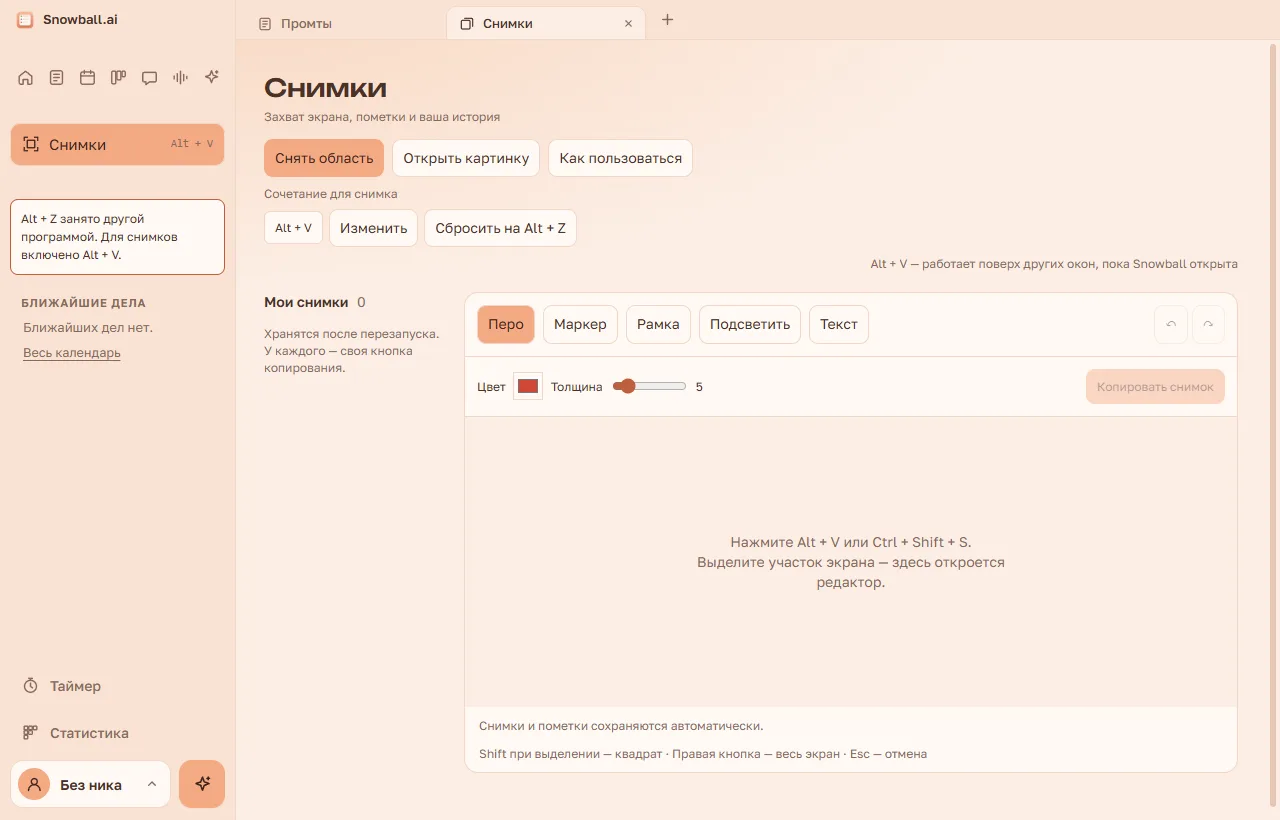
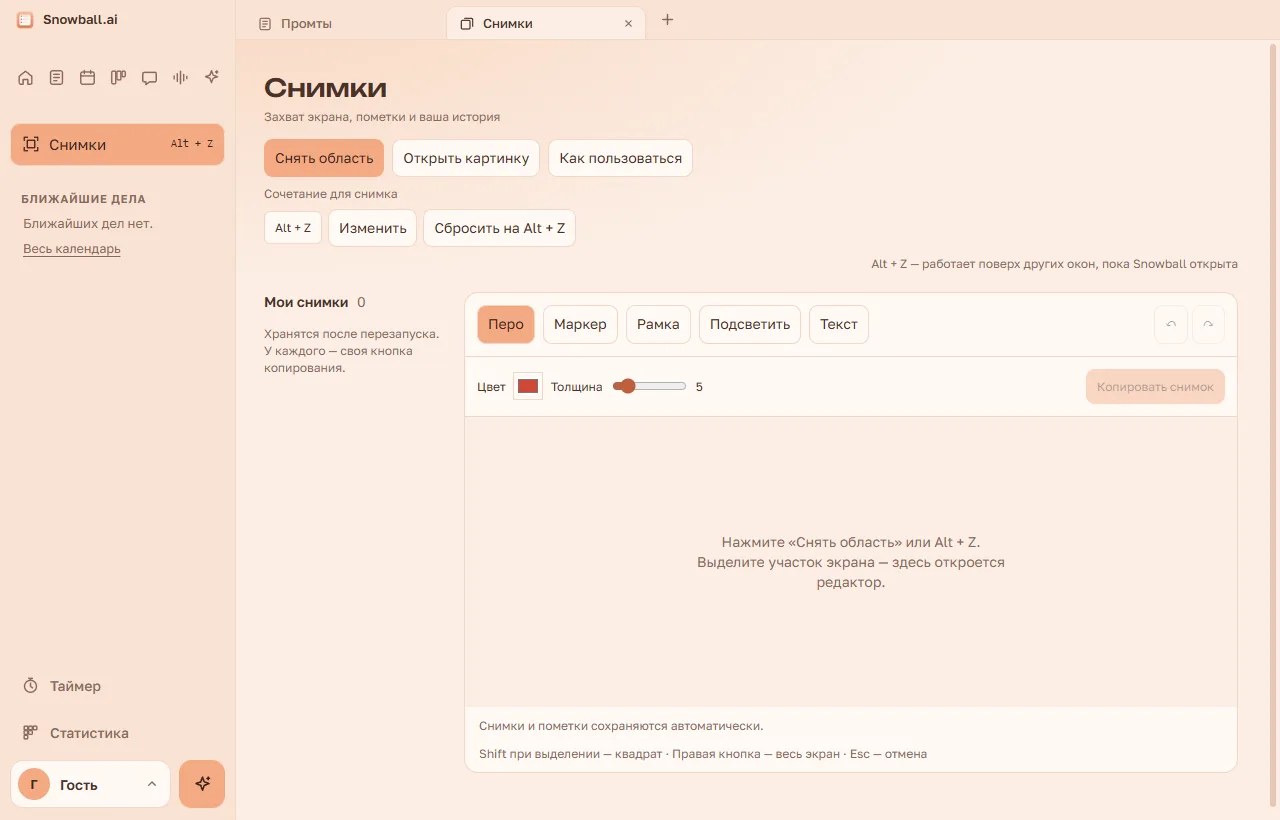
Fix screenshot guidance and shortcut hint in 1.16.3

diff --git a/tools/guide-shots/shots-1.16.0.js b/tools/guide-shots/shots-1.16.0.js
@@ -6,11 +6,29 @@ module.exports = async function ({ main, page, shot }) {
   await until('!!window.vsApi && !!document.querySelector(".capture-nav")');
   await ev("vsApi.setTheme('light')");
   await ev("vsApi.saveProfile({name:'Гость'})");
+  // Refresh this window's own state after the direct API save (sync is sent only to other windows).
+  await page.send('Page.reload', {});
+  await until("document.querySelector('#side-name')?.textContent === 'Гость'");
   await ev("document.querySelectorAll('dialog[open]').forEach(d=>d.close())");
   await click('.capture-nav');
   await until('!!window.screenshotEditor');
   await until("!!document.querySelector('.shot-key .capture-shortcut-change') && document.querySelector('.shot-key-state').textContent.length > 0");
-  await shot('01-where', { section: '.capture-nav', capture: '[data-action=capture]', key: '.shot-key', help: '[data-guide=screenshots]' });
+  // Guide pictures always show the ordinary default. The installed Snowball may own Alt+Z;
+  // change only the isolated guide window's displayed labels, never its actual registration.
+  async function guideShot(name, targets) {
+    await ev(`(() => {
+      const nav = document.querySelector('.capture-nav');
+      nav.querySelector('kbd').textContent = 'Alt + Z';
+      nav.title = 'Снимки экрана · Alt + Z';
+      document.querySelector('#capture-shortcut-notice').hidden = true;
+      document.querySelector('.shot-key output').textContent = 'Alt + Z';
+      document.querySelector('.shot-key-state').textContent = 'Alt + Z — работает поверх других окон, пока Snowball открыта';
+      document.querySelector('.shot-empty-key').textContent = 'Нажмите «Снять область» или Alt + Z.';
+      return true;
+    })()`);
+    await shot(name, targets);
+  }
+  await guideShot('01-where', { section: '.capture-nav', capture: '[data-action=capture]', key: '.shot-key', help: '[data-guide=screenshots]' });
   // Add two harmless fixtures via the real import handler.
   for (let i = 1; i <= 2; i++) {
     const png = await ev(`(() => { const c=document.createElement('canvas');c.width=640;c.height=280;const g=c.getContext('2d');g.fillStyle='#e0e9e1';g.fillRect(0,0,640,280);g.fillStyle='#fff9f4';g.fillRect(30,30,580,220);g.fillStyle='#416551';g.font='bold 28px sans-serif';g.fillText('План проекта — пример ${i}',55,80);g.font='18px sans-serif';g.fillText('Подготовить материалы',55,130);g.fillText('Обсудить идею',55,175);g.fillStyle='#f4aa84';g.fillRect(420,105,150,90);return c.toDataURL('image/png').split(',')[1] })()`);
@@ -26,17 +44,18 @@ module.exports = async function ({ main, page, shot }) {
   }
   await draw('marker', .08, .47, .59, .47);
   await ev('window.screenshotEditor.flush()');
-  await shot('02-tools', { tools: '.shot-tools', pressure: '.shot-pressure-label', color: '.shot-color', undo: '.shot-undo' });
+  await guideShot('02-tools', { tools: '.shot-tools', pressure: '.shot-pressure-label', color: '.shot-color', undo: '.shot-undo' });
   await draw('text', .1, .73, .57, .93);
   await page.send('Input.insertText', { text: 'Проверить сегодня' });
-  await shot('03-text', { text: '.shot-text', tool: '[data-tool=text]' });
+  await guideShot('03-text', { text: '.shot-text', tool: '[data-tool=text]' });
   await ev('window.screenshotEditor.flush()');
   await draw('focus', .64, .35, .91, .73);
   await ev('window.screenshotEditor.flush()');
-  await shot('04-focus', { tool: '[data-tool=focus]', blur: '.shot-blur-label', image: '.shot-stage canvas', copy: '[data-action=copy]' });
+  await guideShot('04-focus', { tool: '[data-tool=focus]', blur: '.shot-blur-label', image: '.shot-stage canvas', copy: '[data-action=copy]' });
+  const deletedId = await ev("document.querySelector('.shot-card:last-child').dataset.id");
   await click('.shot-card:last-child .shot-delete');
-  await until("!document.querySelector('.shot-toast').hidden");
-  await shot('05-history', { history: '.shot-library', copy: '.shot-card .shot-copy', remove: '.shot-card .shot-delete', undo: '.shot-toast' });
+  await until(`!document.querySelector('.shot-card[data-id=${JSON.stringify(deletedId)}]') && !document.querySelector('.shot-toast').hidden && document.querySelectorAll('.shot-card').length === 1`);
+  await guideShot('05-history', { history: '.shot-library', copy: '.shot-card .shot-copy', remove: '.shot-card .shot-delete', undo: '.shot-toast' });
   await click('.shot-toast button');
   await sleep(250);
   return shot.boxes;

diff --git a/src/guides/guides.js b/src/guides/guides.js
@@ -5,7 +5,7 @@
 // A point: box — the key of a box on its screenshot, at — where the label stands (pixels of the 1280 × 820 screenshot),
 // label — a few words on the screenshot, text — what to do. A step with two frames shows a button and what it opens.
 window.GUIDES = [
-  { version: "1.16.0", updated: "1.16.2", section: "screenshots", title: "Снимки", steps: [
+  { version: "1.16.0", updated: "1.16.3", section: "screenshots", title: "Снимки", steps: [
     { title: "Где найти и как снять", lead: "Снимки открываются отдельным разделом. Захват работает и поверх других программ.", frames: [{ shot: "01-where", points: [
       { box: "section", at: [110, 260], label: "Снимки", text: "Кнопка под иконками слева открывает историю и редактор." },
       { box: "capture", at: [420, 320], label: "Снять область", text: "Нажмите кнопку или выбранные горячие клавиши. Потяните мышью по экрану; Shift делает квадрат, правая кнопка снимает весь монитор, Esc отменяет." },

diff --git a/src/screenshots.js b/src/screenshots.js
@@ -278,7 +278,7 @@
     }
     function keyState(r) {
       const keyLabel = window.SnowShortcut.format(r.shortcut);
-      $('.shot-empty-key').textContent = 'Нажмите ' + keyLabel + ' или Ctrl + Shift + S.';
+      $('.shot-empty-key').textContent = 'Нажмите «Снять область» или ' + keyLabel + '.';
       $('.shot-key-state').textContent = r.shortcutActive
         ? keyLabel + ' — работает поверх других окон, пока Snowball открыта'
         : r.shortcutRecording
@@ -711,20 +711,6 @@
       }
     });
     window.addEventListener('resize', positionText);
-    document.addEventListener('keydown', (e) => {
-      if (
-        root.getClientRects().length &&
-        e.ctrlKey &&
-        e.shiftKey &&
-        !e.altKey &&
-        !e.metaKey &&
-        e.code === 'KeyS' &&
-        !e.repeat
-      ) {
-        e.preventDefault();
-        run(async () => check(await api.captureStart()));
-      }
-    });
     new ResizeObserver(positionText).observe($('.shot-stage'));
     window.addEventListener('beforeunload', (e) => {
       if (allowClose || (!textEdit && (!current || current.generation === current.saved))) return;

diff --git a/AGENTS.md b/AGENTS.md
@@ -65,7 +65,7 @@
 - Захват: глобальное сочетание (`globalShortcut`) работает поверх любых программ, пока Snowball запущена: `Alt+Z` по умолчанию или своё сочетание через «Изменить» (хранится в `settings.captureShortcut`; запасные `Alt+V` и `Alt+B` пробуются только при первом запуске без прежнего выбора, предупреждение видно в левой панели без открытия раздела; выбранное сочетание также показывается в настройках). `start` прячет окно, которое попросило, снимает все мониторы (`desktopCapturer`) и открывает на каждом окно выделения `capture-overlay.html` (Shift — квадрат, правая кнопка — весь монитор, Esc — отмена, через 2 минуты закрывается само). После выделения снимок сохраняется и открывается отдельное окно редактора `capture-editor.html` (одно на всю программу). Окна захвата и редактора помечены `__snowCapture`, `liveWins` в `main.js` их не видит; тему им шлёт `captures.theme()`. При закрытии последнего обычного окна `captures.closeAuxiliary()` сохраняет пометки и закрывает редактор и выделение. Окно, попросившее захват кнопкой, явно возвращается после завершения или отмены.
 - IPC (в `screenshots.js`, ответ `{ ok, … }`): `capture-list`, `capture-get`, `capture-save`, `capture-copy`, `capture-start`, `capture-import`, `capture-shortcut`, `capture-delete`, `capture-restore`, `capture-guide`; только для окна выделения — `capture-init`, `capture-choose`, `capture-cancel`; события `capture-changed`, `capture-open`, `capture-theme`. Запросы несут `token`: при смене папки с данными он меняется (`pause`/`resume` вокруг `change-data-dir`), старые окна получают ошибку.
 - Хранение (`ScreenshotStore`): папка «Снимки» в папке с данными, по папке `s<32 hex>/` на снимок: `original.png` (не меняется) и `meta.json` (`format: 'snowball-screenshot'`, размеры, `ops` — пометки, `blur`, `thumb`, `revision`). Запись атомарная; сохранение со старым `revision` отклоняется («Снимок уже изменён в другом окне»). Резервная копия кладёт их в `screenshots/<id>/` и добавляет только отсутствующие (`captures.backup`/`merge`), смена папки копирует «Снимки» (`copyDataTo`). Статистика считает создание/импорт и копирование снимка (`screenshots`, `recordScreenshot`), без удаления, отмены и загрузки резервной копии.
-- Проверка: `node --test tools/screenshot-store.test.cjs` (хранение), `tools/screenshot-smoke.cjs` и `tools/screenshot-preview.cjs`. Проверки занятых клавиш — `tools/screenshot-fallback.test.cjs`. Инструкция «Как пользоваться»: `src/guides/1.16.0/`, сценарий `tools/guide-shots/shots-1.16.0.js`, в `guides.js` версия `1.16.0`, `updated: "1.16.1"`. Кнопка есть в разделе и в отдельном редакторе (открывает инструкцию в главном окне).
+- Проверка: `node --test tools/screenshot-store.test.cjs` (хранение), `tools/screenshot-smoke.cjs` и `tools/screenshot-preview.cjs`. Проверки занятых клавиш — `tools/screenshot-fallback.test.cjs`. Инструкция «Как пользоваться»: `src/guides/1.16.0/`, сценарий `tools/guide-shots/shots-1.16.0.js`, в `guides.js` версия `1.16.0`, `updated: "1.16.3"`. Сценарий показывает Alt + Z только в учебных кадрах, независимо от занятого системного сочетания; реальную регистрацию не меняет. Кнопка есть в разделе и в отдельном редакторе (открывает инструкцию в главном окне).
 
 ## Инструкции к обновлениям («Как пользоваться»)
 - К каждому обновлению с новым разделом или новыми кнопками — инструкция по картинкам: шаги с настоящими скриншотами программы, рамки вокруг новых кнопок, тонкие стрелки от коротких подписей с номерами, справа под тем же номером — подробно. Если кнопка что-то открывает (меню, вкладку), у шага два кадра: «1. Нажмите» и «2. Что получится». У исправлений ошибок инструкции нет. Макет — `mockups/guide.html`.

diff --git a/CLAUDE.md b/CLAUDE.md
@@ -65,7 +65,7 @@
 - Захват: глобальное сочетание (`globalShortcut`) работает поверх любых программ, пока Snowball запущена: `Alt+Z` по умолчанию или своё сочетание через «Изменить» (хранится в `settings.captureShortcut`; запасные `Alt+V` и `Alt+B` пробуются только при первом запуске без прежнего выбора, предупреждение видно в левой панели без открытия раздела; выбранное сочетание также показывается в настройках). `start` прячет окно, которое попросило, снимает все мониторы (`desktopCapturer`) и открывает на каждом окно выделения `capture-overlay.html` (Shift — квадрат, правая кнопка — весь монитор, Esc — отмена, через 2 минуты закрывается само). После выделения снимок сохраняется и открывается отдельное окно редактора `capture-editor.html` (одно на всю программу). Окна захвата и редактора помечены `__snowCapture`, `liveWins` в `main.js` их не видит; тему им шлёт `captures.theme()`. При закрытии последнего обычного окна `captures.closeAuxiliary()` сохраняет пометки и закрывает редактор и выделение. Окно, попросившее захват кнопкой, явно возвращается после завершения или отмены.
 - IPC (в `screenshots.js`, ответ `{ ok, … }`): `capture-list`, `capture-get`, `capture-save`, `capture-copy`, `capture-start`, `capture-import`, `capture-shortcut`, `capture-delete`, `capture-restore`, `capture-guide`; только для окна выделения — `capture-init`, `capture-choose`, `capture-cancel`; события `capture-changed`, `capture-open`, `capture-theme`. Запросы несут `token`: при смене папки с данными он меняется (`pause`/`resume` вокруг `change-data-dir`), старые окна получают ошибку.
 - Хранение (`ScreenshotStore`): папка «Снимки» в папке с данными, по папке `s<32 hex>/` на снимок: `original.png` (не меняется) и `meta.json` (`format: 'snowball-screenshot'`, размеры, `ops` — пометки, `blur`, `thumb`, `revision`). Запись атомарная; сохранение со старым `revision` отклоняется («Снимок уже изменён в другом окне»). Резервная копия кладёт их в `screenshots/<id>/` и добавляет только отсутствующие (`captures.backup`/`merge`), смена папки копирует «Снимки» (`copyDataTo`). Статистика считает создание/импорт и копирование снимка (`screenshots`, `recordScreenshot`), без удаления, отмены и загрузки резервной копии.
-- Проверка: `node --test tools/screenshot-store.test.cjs` (хранение), `tools/screenshot-smoke.cjs` и `tools/screenshot-preview.cjs`. Проверки занятых клавиш — `tools/screenshot-fallback.test.cjs`. Инструкция «Как пользоваться»: `src/guides/1.16.0/`, сценарий `tools/guide-shots/shots-1.16.0.js`, в `guides.js` версия `1.16.0`, `updated: "1.16.1"`. Кнопка есть в разделе и в отдельном редакторе (открывает инструкцию в главном окне).
+- Проверка: `node --test tools/screenshot-store.test.cjs` (хранение), `tools/screenshot-smoke.cjs` и `tools/screenshot-preview.cjs`. Проверки занятых клавиш — `tools/screenshot-fallback.test.cjs`. Инструкция «Как пользоваться»: `src/guides/1.16.0/`, сценарий `tools/guide-shots/shots-1.16.0.js`, в `guides.js` версия `1.16.0`, `updated: "1.16.3"`. Сценарий показывает Alt + Z только в учебных кадрах, независимо от занятого системного сочетания; реальную регистрацию не меняет. Кнопка есть в разделе и в отдельном редакторе (открывает инструкцию в главном окне).
 
 ## Инструкции к обновлениям («Как пользоваться»)
 - К каждому обновлению с новым разделом или новыми кнопками — инструкция по картинкам: шаги с настоящими скриншотами программы, рамки вокруг новых кнопок, тонкие стрелки от коротких подписей с номерами, справа под тем же номером — подробно. Если кнопка что-то открывает (меню, вкладку), у шага два кадра: «1. Нажмите» и «2. Что получится». У исправлений ошибок инструкции нет. Макет — `mockups/guide.html`.

diff --git a/CHANGELOG.md b/CHANGELOG.md
@@ -1,5 +1,12 @@
 # Что нового в Snowball.ai
 
+## 1.16.3
+
+### Исправлена инструкция по снимкам
+- Пустой редактор теперь предлагает кнопку **«Снять область»** или выбранное вами сочетание. Лишняя подсказка про Ctrl + Shift + S убрана.
+- Все пять кадров инструкции **«Как пользоваться»** пересняты с ником **«Гость»** и обычным видом Alt + Z, независимо от открытой установленной Snowball.
+- На кадре удаления снимок уже исчез из истории, а внизу видна кнопка **«Отменить»**. Проверка занятых клавиш теперь воспроизводит конфликт сама.
+
 ## 1.16.2
 
 ### Свои клавиши для снимков
